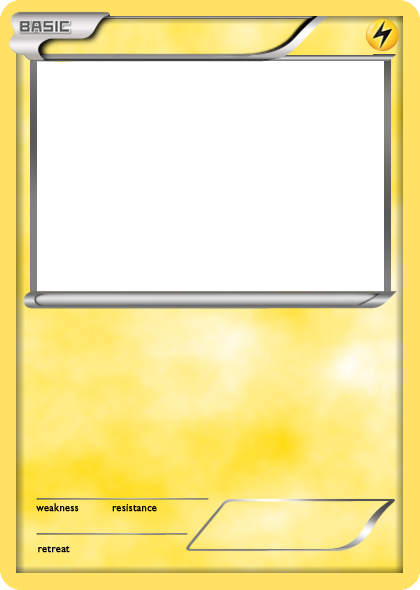
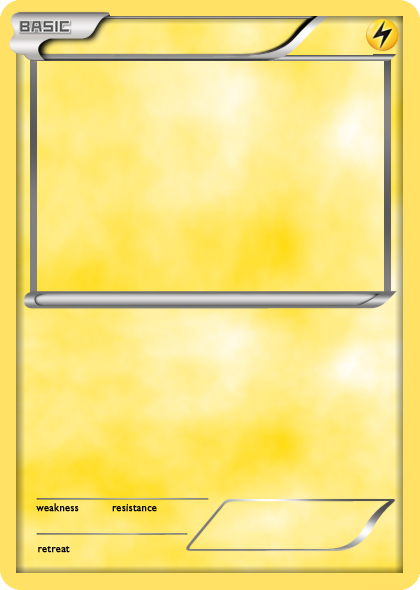
replace transparent pixels with dominant color

diff --git a/main.py b/main.py
@@ -16,7 +16,6 @@ def getImage(link):
    f.write(data)
    f.close()
 
-
 def get_pokemon():
    try:
       pokemon_search = input("Search for a pokemon: ")
@@ -58,7 +57,6 @@ def get_pokemon():
    pokemon_spd = "SPD: " + str(pokemon_info['stats'][5]['base_stat'])
 
    card = Image.open(card_type)
-   width, height = card.size 
    font = ImageFont.truetype("Gill Sans Bold.otf", size=30)
    draw = ImageDraw.Draw(card)
    
@@ -74,24 +72,31 @@ def get_pokemon():
    img = Image.open('temp/pokepic.png')
    img = img.resize((226,226))
 
+   # get dominant color of pokepic
    color_thief = ColorThief('temp/pokepic.png')
    dominant_color = color_thief.get_color(quality=1)
    r, g, b = (dominant_color)
    color = Image.new('RGB',(347,230),(r,g,b))
    
+   #replace transparent pixels with dominant color
+   img = img.convert("RGBA")
+   datas = img.getdata()
+
+   newData = []
+   for item in datas:
+       if item[3] == 0:
+           newData.append((r, g, b))
+       else:
+           newData.append(item)
+
+   img.putdata(newData)
+   img.save('temp\pokepic.png')
+   
    card.paste(color, (37,61))
    card.paste(img, (90,63))
 
-
-
    card.save('temp/card_final.png')
    card.show()
-
-   print(card_type, pokemon_name, pokemon_hp, pokemon_atk, pokemon_def, pokemon_ht)
-
-
-
-
 
    get_pokemon()
 
